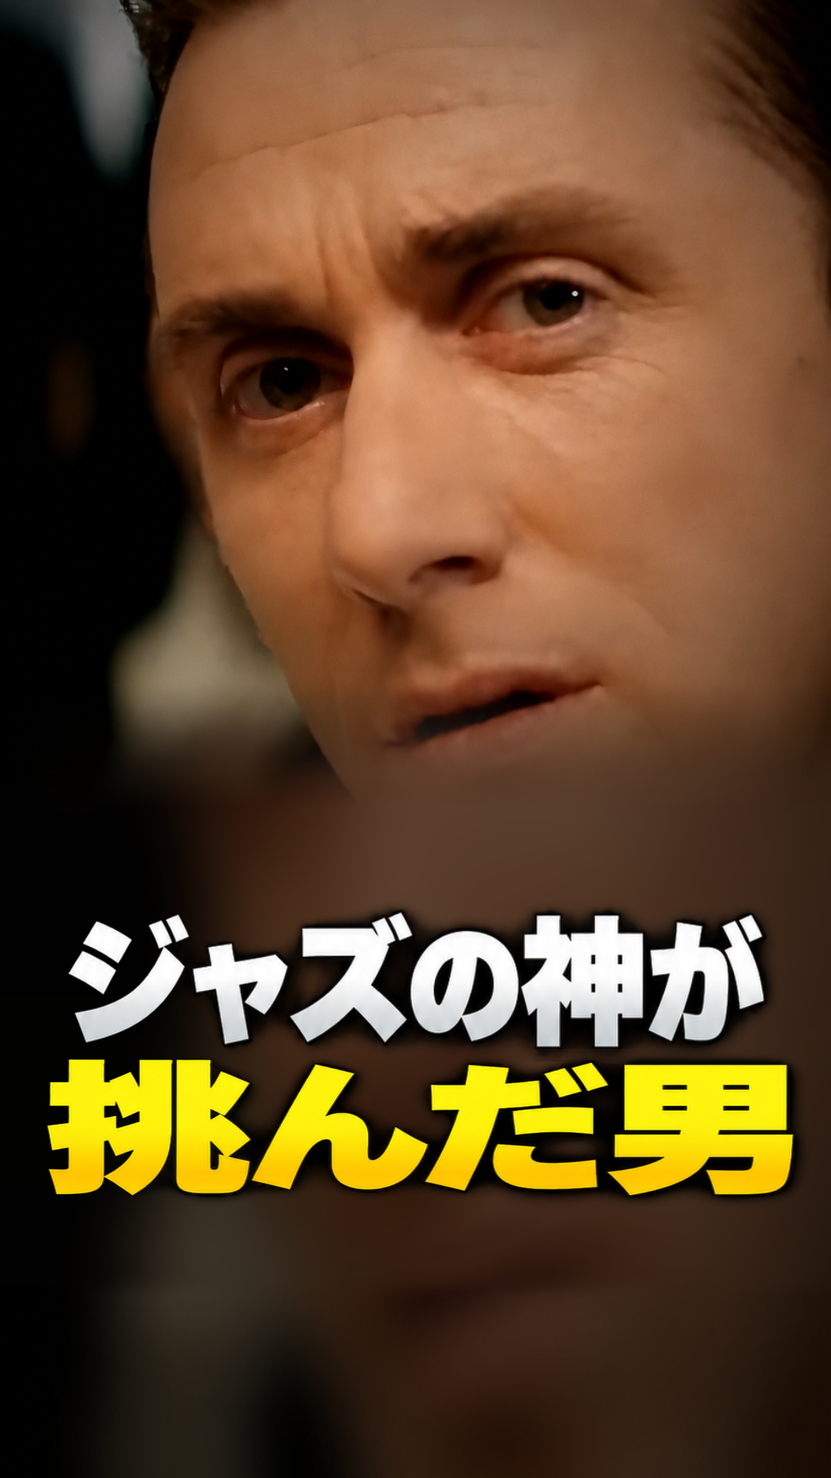
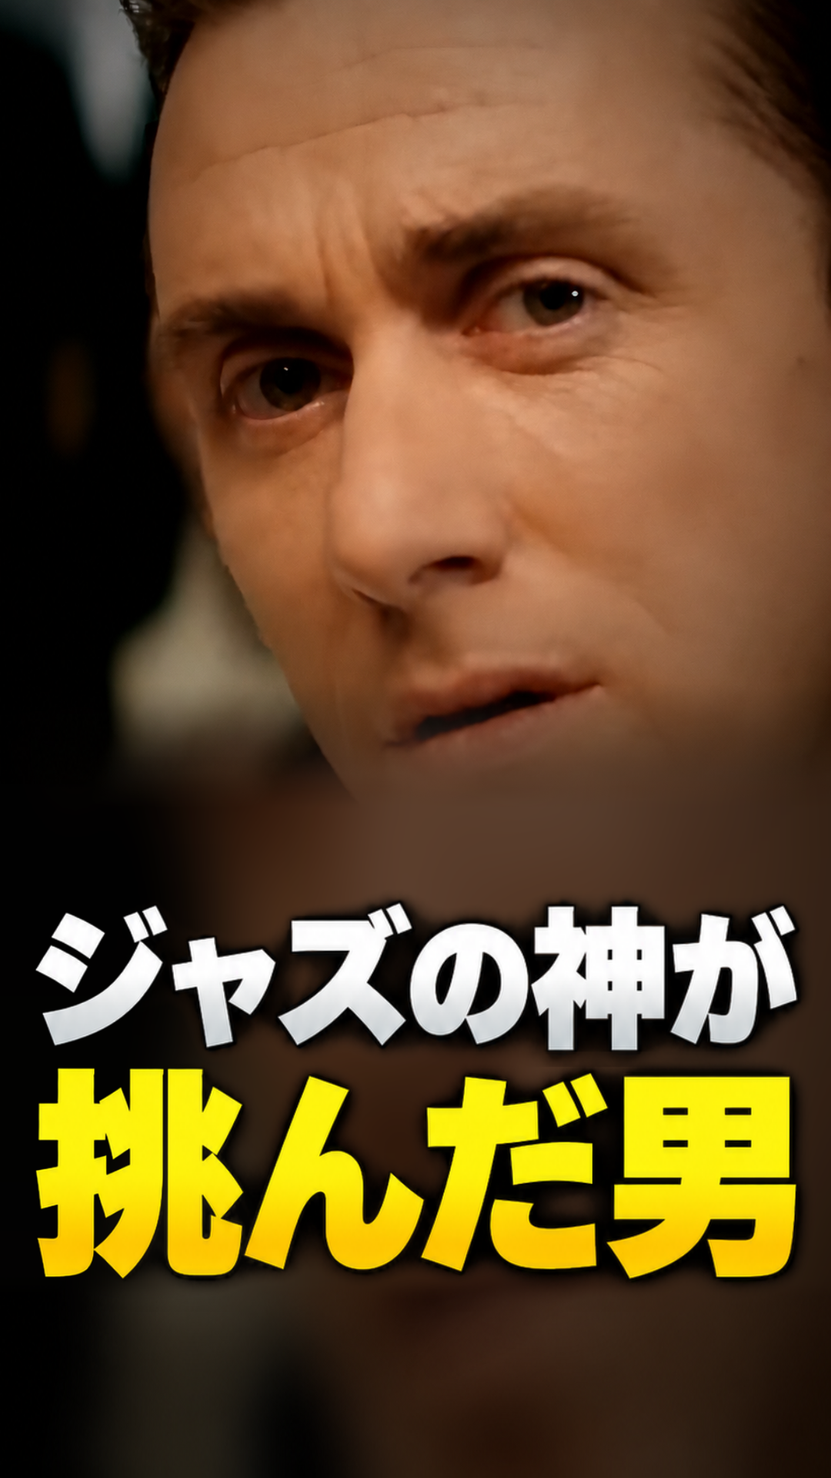
영화 채널: 썸네일 규칙 고정(사용자 확정 2026-10-07) — 위 끝 61.4%·간격 1.4%·아래 87.6% 이내, 두 줄 좌우 꽉 채움(글자 수 적은 줄은 글자 키움, 가로 늘리기 금지), 기준 이미지 もう家族だと. thumbnail.py에 style gpt, fix_gpt_text.py --fill 같은 비율 확대
Claude-Session: https://claude.ai/code/session_01BouazbyQEupnz8YLgYh8Wv

Changed region(s): [[0.0306, 0.5938, 0.9778, 0.875]]

diff --git a/movie/tools/thumbnail.py b/movie/tools/thumbnail.py
@@ -1,7 +1,8 @@
 """쇼츠 커버(썸네일) 1080×1920을 만든다. 기준은 guide/01_COVER.md.
 
 - 원본 영상의 한 프레임에서 영화 화면만 세로 9:16으로 잘라 키운다.
-- 제목 2줄(1줄 흰색, 2줄 노란 그라데이션), 블록은 위 끝 62%·아래 끝 80.7%(guide/01_COVER.md). 넘치면 위치는 그대로 두고 글자를 줄인다.
+- 제목 2줄(1줄 흰색, 2줄 노란 그라데이션). 1줄 위 끝 61.4%, 줄 간격 1.4%, 2줄 아래 끝 87.6% 이내(guide/01_COVER.md, 2026-10-07).
+  두 줄 모두 좌우(x 4.5~95.8%)를 같은 비율 확대로 꽉 채운다 → 글자 수가 적은 줄은 글자가 커진다. 가로로 늘리지 않는다.
 설정: projects/<slug>/thumb.json   사용: python3 tools/thumbnail.py <slug>
 """
 import json, subprocess, sys
@@ -13,8 +14,9 @@ ROOT = Path(__file__).resolve().parent.parent
 FONTS = {"dela": (str(ROOT / "work/fonts/DelaGothicOne-Regular.ttf"), None),
          "noto-black": (str(ROOT / "work/fonts/NotoSansJP-VF.ttf"), "Black")}
 W, H = 1080, 1920
-TOP, BOTTOM = int(H * 0.62), int(H * 0.807)  # 2026-10-06 사용자 확정 위치(guide/01_COVER.md)
-SIDE = int(W * 0.05)
+TOP, BOTTOM = int(H * 0.614), int(H * 0.876)  # 2026-10-07 사용자 확정 위치(guide/01_COVER.md)
+SIDE = int(W * 0.045)
+GAP_RATIO = 0.014
 
 
 def frame(src, t, crop, top_h=None, top_y=0, grade=""):
@@ -42,7 +44,7 @@ def frame(src, t, crop, top_h=None, top_y=0, grade=""):
     return bg
 
 
-def text_layer(lines, sizes, font="dela", scale_x=1.0):
+def text_layer(lines, sizes, font="dela", scale_x=1.0, style="gpt"):
     """lines: [(텍스트, 'white'|'yellow')], sizes: 각 줄 글자 크기. 줄마다 RGBA 이미지와 실제 글자 상자를 돌려준다."""
     out = []
     for (txt, col), size in zip(lines, sizes):
@@ -54,24 +56,33 @@ def text_layer(lines, sizes, font="dela", scale_x=1.0):
         pad = 40
         mask = Image.new("L", (w + pad * 2, h + pad * 2), 0)
         ImageDraw.Draw(mask).text((pad - l, pad - t), txt, font=f, fill=255)
+        if style == "gpt":  # GPT 썸네일 글자처럼 획을 조금 더 굵게
+            mask = mask.filter(ImageFilter.MaxFilter(3))
         if scale_x != 1.0:  # 장체(가로로 좁힌 글자) — 참고 썸네일처럼 세로로 길게
             mask = mask.resize((int(mask.size[0] * scale_x), mask.size[1]), Image.LANCZOS)
             w = int(w * scale_x); pad_x = int(pad * scale_x)
         else:
             pad_x = pad
-        if col == "yellow":  # 위 밝은 노랑 → 아래 진한 노랑
-            grad = Image.new("RGB", mask.size)
-            g = ImageDraw.Draw(grad)
-            for y in range(mask.size[1]):
-                k = min(1, max(0, (y - pad) / max(1, h)))
-                g.line([(0, y), (mask.size[0], y)], fill=(255, int(236 - 40 * k), int(40 - 40 * k)))
-        else:
-            grad = Image.new("RGB", mask.size, (255, 255, 255))
+        # style "gpt"(2026-10-07 기본): GPT 썸네일과 같은 느낌 — 흰 줄 순백→연회색, 노랑 #FFEC00→#FFB800, 넓고 진한 그림자
+        grad = Image.new("RGB", mask.size)
+        g = ImageDraw.Draw(grad)
+        for y in range(mask.size[1]):
+            k = min(1, max(0, (y - pad) / max(1, h)))
+            if col == "yellow":
+                c = (255, int(236 - 52 * k), 0) if style == "gpt" else (255, int(236 - 40 * k), int(40 - 40 * k))
+            else:
+                c = (int(255 - 50 * k ** 1.5),) * 2 + (int(255 - 44 * k ** 1.5),) if style == "gpt" else (255, 255, 255)
+            g.line([(0, y), (mask.size[0], y)], fill=c)
         layer = Image.new("RGBA", mask.size, (0, 0, 0, 0))
         # 그림자(번진 검정) + 얇은 검은 테두리
-        sh = mask.filter(ImageFilter.MaxFilter(9)).filter(ImageFilter.GaussianBlur(14))
-        layer.paste((0, 0, 0, 255), (6, 10), sh.point(lambda v: int(v * 0.85)))
-        edge = mask.filter(ImageFilter.MaxFilter(7))
+        if style == "gpt":
+            sh = mask.filter(ImageFilter.MaxFilter(11)).filter(ImageFilter.GaussianBlur(18))
+            layer.paste((0, 0, 0, 255), (8, 12), sh.point(lambda v: min(255, int(v * 1.1))))
+            edge = mask.filter(ImageFilter.MaxFilter(5))
+        else:
+            sh = mask.filter(ImageFilter.MaxFilter(9)).filter(ImageFilter.GaussianBlur(14))
+            layer.paste((0, 0, 0, 255), (6, 10), sh.point(lambda v: int(v * 0.85)))
+            edge = mask.filter(ImageFilter.MaxFilter(7))
         layer.paste((10, 10, 10, 255), (0, 0), edge)
         layer.paste(grad, (0, 0), mask)
         out.append((layer, w, h, (pad_x, pad)))
@@ -93,20 +104,18 @@ def main():
         d.line([(0, y), (W, y)], fill=int(170 * k ** 1.3))
     img.paste((0, 0, 0), (0, 0), shade)
 
-    sizes = list(cfg["sizes"])
-    gap = cfg.get("gap", 18)
-    while True:  # 폭(좌우 5%)을 넘는 줄만 줄이고, 높이(62~80.7%)를 넘으면 전체를 줄인다
-        layers = text_layer(cfg["lines"], sizes, cfg.get("font", "dela"), cfg.get("scale_x", 1.0))
-        total = sum(h for _, _, h, _ in layers) + gap * (len(layers) - 1)
-        wide = [i for i, (_, w, _, _) in enumerate(layers) if w > W - 2 * SIDE]
-        if wide:
-            for i in wide: sizes[i] = int(sizes[i] * 0.97)
-        elif total > BOTTOM - TOP:
-            sizes = [int(v * 0.97) for v in sizes]
-        else:
-            break
-    y = BOTTOM - total  # 블록 아래 끝을 80.7% 선에 맞춘다
-    y = max(y, TOP)
+    # 줄마다 글자 크기를 바꿔 좌우를 꽉 채운다(같은 비율). 두 줄 높이가 띠를 넘으면 같은 비율로 줄인다.
+    gap = int(H * GAP_RATIO)
+    sizes = list(cfg.get("sizes", [200, 200]))
+    font, sx, style = cfg.get("font", "noto-black"), cfg.get("scale_x", 1.0), cfg.get("style", "gpt")
+    for _ in range(4):
+        layers = text_layer(cfg["lines"], sizes, font, sx, style)
+        sizes = [max(20, int(sz * (W - 2 * SIDE) / w)) for sz, (_, w, _, _) in zip(sizes, layers)]
+    layers = text_layer(cfg["lines"], sizes, font, sx, style)
+    while sum(h for _, _, h, _ in layers) + gap * (len(layers) - 1) > BOTTOM - TOP:
+        sizes = [int(v * 0.98) for v in sizes]
+        layers = text_layer(cfg["lines"], sizes, font, sx, style)
+    y = TOP  # 1줄 위 끝 61.4% 고정
     canvas = img.convert("RGBA")
     boxes = []
     for layer, w, h, pad in layers:
@@ -118,7 +127,7 @@ def main():
     canvas.convert("RGB").save(out)
     x0 = min(b[0] for b in boxes); x1 = max(b[2] for b in boxes); y0 = boxes[0][1]; y1 = boxes[-1][3]
     print(f"wrote {out}  sizes={sizes}  text block x {x0}-{x1}, y {y0}-{y1} "
-          f"({y0 / H:.1%}–{y1 / H:.1%} of height; rule 62.0–80.7%)")
+          f"({y0 / H:.1%}–{y1 / H:.1%} of height; rule top 61.4%, bottom ≤87.6%, sides filled)")
 
 
 if __name__ == "__main__":

diff --git a/movie/tools/fix_gpt_text.py b/movie/tools/fix_gpt_text.py
@@ -1,9 +1,8 @@
 """GPT가 만든 썸네일에서 인물은 그대로 두고 제목 글자만 기준 위치(62.0~80.7%)로 옮기거나 줄인다(guide/01_COVER.md).
 
 사용: python3 tools/fix_gpt_text.py <GPT결과.png> <GPT에 준 사진.png> <출력.png> [--fill]
---fill: (2026-10-07 사용자 지정) GPT가 그린 글자 모양 그대로, 줄마다 따로 키워 기준 사진처럼 좌우를 꽉 채운다.
-  흰 줄 x 8.9~92.3%(같은 비율로 확대, 위 끝 62.0%), 줄 간격 1.0%, 노란 줄 x 5.7~95.3%·아래 끝 80.7%
-  (노란 줄은 남은 높이에 맞추고 가로만 늘려 꽉 채움)
+--fill: (2026-10-07 사용자 지정) GPT가 그린 글자 모양 그대로, 줄마다 같은 비율로 키워 좌우(x 4.5~95.8%)를 채운다.
+  글자 수가 적은 줄은 글자가 더 커진다(가로만 늘리지 않음). 위 끝 61.4%, 줄 간격 1.4%, 아래 끝 87.6% 이내.
 1. GPT 결과를 1080x1920으로 맞추고, 준 사진을 ORB로 정렬
 2. 글자 띠 위·아래 영역으로 색 회귀(x, x², y, x·y) → 정렬한 사진 색을 GPT 색감에 맞춤
 3. 글자 띠를 사진으로 복원(바탕), 차이로 글자+그림자 알파를 뽑음
@@ -70,29 +69,32 @@ def line_box(img, kind, r0, r1):
 
 
 if "--fill" in sys.argv:
+    # 2026-10-07 사용자 지정(기준: もう家族だと/思ってた): 위 끝 61.4%, 두 줄 간격 1.4%, 아래 끝은 87.6%를 넘지 않음.
+    # 줄마다 GPT 글자 모양 그대로 같은 비율로 키워 좌우(x 4.5~95.8%)를 채운다 → 글자 수가 적은 줄은 글자가 더 커진다.
+    FT, FB, GAP, X0, X1 = 0.614, 0.876, 0.014, 0.045, 0.958
     wb = line_box(G, "white", y0, y1); yb = line_box(G, "yellow", y0, y1)
     cut = (wb[3] + yb[1]) // 2  # 두 줄 사이
+    tw = (X1 - X0) * W
+    ks = [tw / (bx[2] - bx[0]) for bx in (wb, yb)]
+    hs = [k * (bx[3] - bx[1]) for k, bx in zip(ks, (wb, yb))]
+    room = (FB - FT - GAP) * H
+    if sum(hs) > room:  # 높이가 넘치면 두 줄을 같은 비율로 줄인다
+        f = room / sum(hs); ks = [k * f for k in ks]; hs = [h * f for h in hs]
     out = base.copy()
-    # 흰 줄: 같은 비율로 x 8.9~92.3%까지, 위 끝 62.0%
-    tw = (0.923 - 0.089) * W; sw = tw / (wb[2] - wb[0])
-    wtop = TOP * H; wbot = wtop + sw * (wb[3] - wb[1])
-    # 노란 줄: 간격 1% 아래부터 80.7%까지, 가로는 x 5.7~95.3%로 꽉
-    ytop = wbot + 0.010 * H; ybot = BOT * H
-    syy = (ybot - ytop) / (yb[3] - yb[1]); syx = (0.953 - 0.057) * W / (yb[2] - yb[0])
-    for (bx0, by0, bx1, by1), sx, sy, tx0, ty0, rr in [
-            (wb, sw, sw, (W - tw) / 2, wtop, (0, cut)),
-            (yb, syx, syy, 0.057 * W, ytop, (cut, H))]:
+    tops = [FT * H, FT * H + hs[0] + GAP * H]
+    for bx, k, top, rr in [(wb, ks[0], tops[0], (0, cut)), (yb, ks[1], tops[1], (cut, H))]:
         a = alpha.copy(); a[:rr[0]] = 0; a[rr[1]:] = 0
-        M = np.float32([[sx, 0, tx0 - sx * bx0], [0, sy, ty0 - sy * by0]])
+        cx = (bx[0] + bx[2]) / 2
+        M = np.float32([[k, 0, W / 2 - k * cx], [0, k, top - k * bx[1]]])
         Tg = cv2.warpAffine(G.astype(np.float32), M, (W, H))
         Ta = cv2.warpAffine(a, M, (W, H))[..., None]
         out = out * (1 - Ta) + Tg * Ta
     out = np.clip(out, 0, 255).astype(np.uint8)
     cv2.imwrite(sys.argv[3], out)
-    print(f"fill: white scale {sw:.3f}, yellow scale x{syx:.3f} y{syy:.3f}")
-    for k in ("white", "yellow"):
-        bx = line_box(out, k, int(H * .55), H)
-        print(f"  {k}: y {bx[1]/H:.1%}-{bx[3]/H:.1%}  x {bx[0]/W:.1%}-{bx[2]/W:.1%}")
+    print(f"fill: white x{ks[0]:.3f}, yellow x{ks[1]:.3f} (같은 비율)")
+    for kk in ("white", "yellow"):
+        bx = line_box(out, kk, int(H * .55), H)
+        print(f"  {kk}: y {bx[1]/H:.1%}-{bx[3]/H:.1%}  x {bx[0]/W:.1%}-{bx[2]/W:.1%}")
     sys.exit()
 # 4) 글자 블록 이동·축소(아래 끝 기준)
 s = (BOT - TOP) * H / (y1 - y0)

diff --git a/movie/AGENTS.md b/movie/AGENTS.md
@@ -134,7 +134,7 @@
 **규격**
 - 1080×1920. 영상 속 실제 프레임만 사용(인물을 다시 그리거나 바꾸지 않는다). 한국어 자막·로고·장식 없는 프레임.
 - 제목 2줄: 1줄 흰색(순백→연회색), 2줄 노란색(#FFE600→#FFC400) 그라데이션, 2줄이 더 크게. 아주 굵은 장체(Noto Sans JP Black을 가로 80%), 넓은 검은 그림자 + 얇은 검은 테두리.
-- **위치(2026-10-06 사용자 확정, `assets/thumb_position_reference.png`): 제목 블록 위 끝 62.0%(y 1190), 아래 끝 80.7%(y 1550).** 1줄(흰) 62.0~67.6%, 2줄(노랑) 71.2~80.7%. 좌우 여백 각 5% 이상. 길면 위치는 그대로 두고 글자를 줄인다(넘치는 줄만 줄인다). 이전 기준(61~88%, 59.5~81%)은 폐기.
+- **위치·크기(2026-10-07 사용자 확정, `assets/thumb_position_reference.png` = もう家族だと/思ってた): 1줄(흰) 위 끝 61.4%(y 1179), 두 줄 간격 약 1.4%, 2줄(노랑) 아래 끝 87.6%(y 1682) 이내.** 두 줄 모두 좌우 x 약 4.5~95.8%를 꽉 채운다. 글자 수가 적은 줄은 글자를 키워서 채우고, 가로로 늘려 채우지 않는다. 높이가 넘치면 두 줄을 같은 비율로 줄인다. 이전 기준(62.0~80.7%, 61~88%)은 폐기.
 - 얼굴(눈)은 위에서 15~50%. 위쪽에 흐린 띠·그라데이션 띠를 넣지 않는다.
 - 중요한 피사체가 아래에 있으면 제목이 가린다 → 다른 장면을 고르거나 사용자에게 알린다.
 - 후보는 3개를 비교 이미지(기준 썸네일과 나란히)로 제시하고 추천 1개와 이유를 말한다.
@@ -147,7 +147,7 @@
 [사진] 그대로 쓴다. 인물의 얼굴·피부색·나이·표정·옷은 절대 바꾸지 않는다. 다시 그리지 않는다.
   해도 되는 것: 선명도, 대비 약간↑, 채도 약간, 비네트. 위쪽에 흐림·그라데이션 띠 금지. 사진 위치·크기 그대로.
 [문구] 1줄(흰색): ○○○ / 2줄(노란색): ○○○  (이대로, 줄 나누기 그대로)
-[위치] 제목 블록 위 끝 = 화면 높이 62%(y 1190), 아래 끝 = 80.7%(y 1550). 1줄(흰) 62~67.6%, 2줄(노랑) 71.2~80.7%. 좌우 여백 5% 이상.
+[위치] 1줄(흰) 위 끝 = 화면 높이 61.4%(y 1179), 두 줄 간격 약 1.4%, 2줄(노랑) 아래 끝 = 87.6%(y 1682) 이내. 두 줄 모두 좌우 약 4.5~95.8%를 꽉 채운다. 글자 수가 적은 줄은 글자를 키워 채우고, 가로로 늘리지 않는다.
   2줄을 1줄보다 크게(1줄 글자 높이 ≈ 화면 높이의 5.6%, 2줄 ≈ 9.6%), 두 줄 사이 간격 ≈ 3.6%. 글자가 얼굴을 가리지 않게.
 [스타일] 아주 굵은 일본어 고딕(Noto Sans JP Black), 가로 약간 좁힌 장체.
   1줄 순백→연회색, 2줄 #FFE600→#FFC400 그라데이션, 넓고 부드러운 검은 그림자 + 얇은 검은 테두리. 글자 정확히.
@@ -155,7 +155,7 @@
 [확인] 위치·여백·글자 정확도·인물 동일성을 확인하고, 아니면 고쳐서 다시 만들어 줘.
 ```
 
-**GPT 결과의 글자 위치가 위 기준(62.0~80.7%)과 다를 때(인물은 그대로, 글자만 이동)**: GPT에 준 원본 사진을 ORB 특징점으로 정렬(보통 어긋남 1px 미만) → 국소 색 보정 → 원래 글자 띠를 원본 배경으로 복원 → 원본과의 차이로 글자+그림자 알파를 만들어 목표 높이로 옮겨 합성 → 위·아래 끝을 다시 재서 보고. 단순 인페인팅은 얼룩이 남으니 쓰지 않는다.
+**GPT 결과의 글자 위치·크기가 위 기준과 다를 때(인물은 그대로, GPT 글자 모양 그대로 이동·확대, `python3 tools/fix_gpt_text.py GPT결과.png 준사진.png 출력.png --fill`)**: GPT에 준 원본 사진을 ORB 특징점으로 정렬(보통 어긋남 1px 미만) → 국소 색 보정 → 원래 글자 띠를 원본 배경으로 복원 → 원본과의 차이로 글자+그림자 알파를 만들어 목표 높이로 옮겨 합성 → 위·아래 끝을 다시 재서 보고. 단순 인페인팅은 얼룩이 남으니 쓰지 않는다.
 
 ---
 

diff --git a/movie/guide/01_COVER.md b/movie/guide/01_COVER.md
@@ -1,26 +1,27 @@
-# 썸네일(커버) 제목 위치 기준
+# 썸네일(커버) 제목 위치·크기 기준
 
-**확정 2026-10-06(사용자 지정).** 기준 이미지: `assets/thumb_position_reference.png`(「4800キロ先で / 待っていたのは」). 이전 기준(61~88%, 「看守」 59.5~81%)은 폐기했다.
+**확정 2026-10-07(사용자 지정). 이 규칙은 고정이다 — 다시 바꾸지 않는다.** 썸네일은 GPT 대신 `tools/thumbnail.py`로 직접 만든다(style `gpt`: GPT 썸네일과 같은 글자 느낌). 기준 이미지: `assets/thumb_position_reference.png`(「もう家族だと / 思ってた」, kind 썸네일). 이전 기준(62.0~80.7%, 「4800キロ先で」)은 폐기했다.
 
-## 위치 (1080×1920 기준)
+## 위치 (1080×1920 기준, 위치는 고정)
 
 | 항목 | 비율 | 1920 기준 y |
 |---|---|---|
-| 제목 블록 위 끝(1줄 흰 글자 위) | **62.0%** | **1190** |
-| 1줄 아래 끝 | 67.6% | 1298 |
-| 2줄 위 끝(노란 글자 위) | 71.2% | 1367 |
-| 제목 블록 아래 끝(2줄 아래) | **80.7%** | **1550** |
-| 좌우 | 1줄 x 8.9~92.3%, 2줄 x 5.7~95.3% | 여백 각 5% 이상 |
+| 1줄(흰 글자) 위 끝 | **61.4%** | **1179** |
+| 1줄 아래 끝 | 72.1% | 1384 |
+| 2줄(노란 글자) 위 끝 | 73.5% | 1411 |
+| 2줄 아래 끝 | **87.6%** | **1682** |
+| 두 줄 간격 | 약 1.4% | 약 27 |
+| 좌우 | 두 줄 모두 x 약 4.5~95.8% | 좌우를 꽉 채움 |
 
-- 제목은 2줄. 1줄 흰색(작게), 2줄 노란색(크게). 2줄 글자 높이 ≈ 1줄의 1.7배.
-- **아래 끝을 80.7%(y 1550)에 맞춘다.** 위 끝은 62% 근처. 글자가 길면 위치를 바꾸지 말고 글자 크기를 줄인다.
-- 납품 전에 흰 글자 위 끝·노란 글자 아래 끝을 픽셀로 재서 ±0.5% 안인지 확인한다.
+## 글자 크기 (2026-10-07 사용자 지정)
 
-## GPT 결과의 위치가 다를 때
+- **두 줄 모두 좌우를 꽉 채운다.** 글자 수가 적은 줄은 **글자 크기를 키워서** 채운다(예: 「看守は / 気づけるか？」는 3글자인 1줄이 더 크다).
+- **가로로 늘려서 채우지 않는다.** 글자는 항상 원래 비율 그대로 키운다(장체 0.8은 폰트 스타일로 유지).
+- 두 줄 높이 합이 61.4~87.6%를 넘으면 두 줄을 같은 비율로 줄인다(위 끝 61.4%는 고정).
+- 1줄 흰색(위 순백→아래 연회색), 2줄 노란색(#FFE600→#FFC400) 그라데이션, 넓은 검은 그림자.
 
-인물은 그대로 두고 글자만 옮긴다(`python3 tools/fix_gpt_text.py GPT결과.png 준사진.png 출력.png`, 글자가 크면 아래 끝 기준으로 줄임): GPT에 준 원본 사진을 ORB로 정렬 → 띠 위·아래 이웃 영역으로 색 회귀 보정 → 원래 글자 띠 복원 → 글자+그림자 알파를 목표 위치로 이동 합성 → 다시 측정.
+## GPT 결과를 고칠 때
 
-## 글자 크기: 좌우를 꽉 채운다 (2026-10-07 사용자 지정)
-
-- 위치는 위 표(62.0~80.7%) 그대로, **글자 크기는 기준 사진처럼 좌우를 꽉 채운다**(흰 줄 x 약 8.9~92.3%, 노란 줄 x 약 5.7~95.3%, 두 줄 간격 약 1%).
-- GPT로 만든 썸네일은 **GPT가 그린 글자 모양을 그대로 쓴다**(새 폰트로 다시 쓰지 않는다). `python3 tools/fix_gpt_text.py GPT결과.png 준사진.png 출력.png --fill`로 줄마다 따로 키워 채운다. 글자 수가 적어 높이가 넘치면 높이는 띠에 맞추고 가로만 늘린다.
+GPT가 그린 글자 모양을 그대로 쓴다(새 폰트로 다시 쓰지 않는다). 인물은 그대로 두고 글자만 옮기고 키운다:
+`python3 tools/fix_gpt_text.py GPT결과.png 준사진.png 출력.png --fill`
+(준 사진을 ORB로 정렬 → 띠 위·아래로 색 회귀 → 원래 글자 띠 복원 → 줄마다 같은 비율로 키워 위 기준에 배치 → 다시 측정)

diff --git a/movie/guide/02_THUMBNAIL_GPT.md b/movie/guide/02_THUMBNAIL_GPT.md
@@ -1,12 +1,12 @@
 # 쇼츠 썸네일 제작 지침 (GPT 전달용)
 
-2026-10-02 사용자 요청으로 작성. 사용법: GPT에 **원본 영상(또는 글자 없는 장면 사진) + 위치 기준 사진 `assets/thumb_position_reference.png` + 아래 「GPT에 붙여 넣을 지침」**을 함께 올린다. 위치 수치는 기준 사진에서 잰 값이다(2026-10-06 사용자 확정, 01_COVER).
+2026-10-02 사용자 요청으로 작성. 사용법: GPT에 **원본 영상(또는 글자 없는 장면 사진) + 위치 기준 사진 `assets/thumb_position_reference.png` + 아래 「GPT에 붙여 넣을 지침」**을 함께 올린다. 위치 수치는 기준 사진에서 잰 값이다(2026-10-07 사용자 확정, 01_COVER).
 
 ## GPT에 붙여 넣을 지침
 
 ```
 너는 일본 시청자용 영화 쇼츠 채널 「シネトリ」의 썸네일(커버) 디자이너다.
-첨부: ① 원본 영상 또는 장면 사진 ② 위치 기준 사진(4800キロ先で / 待っていたのは).
+첨부: ① 원본 영상 또는 장면 사진 ② 위치 기준 사진(もう家族だと / 思ってた).
 아래 기준으로 세로 썸네일 1장을 만들어 줘.
 
 [1] 크기
@@ -27,11 +27,9 @@
 
 [4] 제목 글자 — 위치는 기준 사진과 똑같이
 - 2줄. 1줄은 흰색, 2줄은 노란색(핵심 단어).
-- 제목 블록 위 끝 = 화면 높이 62%(1920 기준 y 1190), 아래 끝 = 80.7%(y 1550).
-  1줄(흰) 62~67.6%, 2줄(노랑) 71.2~80.7%.
+- 1줄(흰) 위 끝 = 화면 높이 61.4%(1920 기준 y 1179), 두 줄 간격 약 1.4%, 2줄(노랑) 아래 끝 = 87.6%(y 1682) 이내.
+- 두 줄 모두 좌우를 꽉 채운다(x 약 4.5~95.8%). 글자 수가 적은 줄은 글자를 더 크게 해서 채운다. 글자를 가로로 늘리거나 찌그러뜨리지 않는다.
 - 아래로 내려가면 쇼츠 화면 아래 UI(제목·채널명)에 가려 잘린다. 위치를 바꾸지 마.
-- 좌우 여백은 각각 폭의 5% 이상(약 50px). 글자가 길면 위치를 내리지 말고 글자 크기를 줄인다.
-- 크기 비율: 1줄 글자 높이 ≈ 화면 높이의 5.6%, 2줄 ≈ 9.6%(2줄을 더 크게). 두 줄 사이 간격 ≈ 3.6%.
 
 [5] 글자 스타일 — 기준 사진과 같게
 - 굵은 일본어 고딕체(Noto Sans JP Black, 源ノ角ゴシック Heavy, Dela Gothic One 같은 굵기).
@@ -49,8 +47,8 @@
 - 채널 로고, 화살표, 원, 이모지, 테두리, 워터마크, 추가 문구.
 
 [8] 다 만든 뒤 스스로 확인하고, 아니면 고쳐서 다시 만들어 줘
-- 제목 블록 위 끝이 약 62%, 아래 끝이 약 80.7%인가?
-- 좌우가 잘리지 않았고 5% 여백이 있는가?
+- 1줄 위 끝이 약 61.4%, 2줄 아래 끝이 87.6% 이내인가?
+- 두 줄 모두 좌우를 꽉 채웠고(잘리지 않음), 글자를 가로로 늘리지 않았는가?
 - 일본어 글자가 정확한가(한 글자씩 대조)?
 - 얼굴이 위쪽 절반에 있고, 제목과 겹치지 않는가?
 - 인물이 영상 속 인물과 같은 사람으로 보이는가?
@@ -65,6 +63,6 @@
 
 ## 받은 뒤 확인
 
-- 우리 쪽에서 픽셀로 다시 잰다: 위 끝 62.0%, 아래 끝 80.7%(±0.5%), 좌우 ≥ 5%.
+- 우리 쪽에서 픽셀로 다시 잰다: 위 끝 61.4%, 아래 끝 87.6% 이내, 좌우 꽉 채움. 다르면 `tools/fix_gpt_text.py --fill`(GPT 글자 그대로 이동·확대).
 - GPT 이미지 생성은 실제 프레임을 "다시 그리는" 경우가 있다. 배우 얼굴이 달라졌으면 다시 요청하거나, `tools/thumbnail.py`(실제 프레임 + 같은 규칙)로 만든다.
 - 영화 장면을 쓴 썸네일도 권리 문제는 영상과 같다. 썸네일을 바꿨다고 해결되지 않는다.

diff --git a/movie/CLAUDE.md b/movie/CLAUDE.md
@@ -17,7 +17,7 @@
 - **동기화**: 문장 묶음 단위로 합성하고 단어 타이밍으로 배치. 축약 → 합성 속도 → 후처리 가속(대체로 1.0–1.25배) 순서로 맞춘다.
 - **화면**: 상·하단 `#10131C`, 제목 Dela Gothic One(핵심 노란 강조). 한국어 자막·로고는 그 영역만 부드럽게 블러. 좌표·속도 같은 탈옥 영상 수치는 참고값일 뿐 그대로 쓰지 않는다.
 - **대사 색(사용자 지정, 2026-10-05)**: 말하는 사람마다 색을 나눈다. 주인공 노랑 `#FFDC49`, 두 번째 인물 하늘색 `#7FD8FF`, 세 번째 인물 분홍 `#FF9EC7`, 네 번째부터 연두 `#A8E890`·주황 `#FFB870`. 해설의 흰색과 겹치는 색은 쓰지 않는다. `script.json`의 `speaker_colors`(인물 이름 → 색)로 정하고, 없는 인물은 노랑.
-- **커버 제목**(2026-10-06 사용자 확정): 2줄(흰/노랑), 위 끝 62.0%(y 1190), 아래 끝 80.7%(y 1550). 기준 이미지 `assets/thumb_position_reference.png`(01_COVER).
+- **커버 제목**(2026-10-07 사용자 확정): 2줄(흰/노랑), 위 끝 61.4%(y 1179), 아래 끝 87.6%(y 1682) 이내, 줄 간격 1.4%. 두 줄 모두 좌우를 꽉 채우고, 글자 수가 적은 줄은 글자를 키운다(가로로 늘리지 않음). **이 규칙은 고정(사용자: 다시는 바꾸지 않는다).** 썸네일은 GPT 대신 우리가 `tools/thumbnail.py`(style gpt: 흰 순백→연회색, 노랑 #FFEC00→#FFB800, 굵은 획·진한 그림자, 장체 없음)로 직접 만든다. GPT 결과를 받으면 GPT 글자 그대로 `tools/fix_gpt_text.py --fill`. 기준 이미지 `assets/thumb_position_reference.png`(もう家族だと/思ってた, 01_COVER).
 - **채널 로고**(사용자 지정): 원본 채널 워터마크를 블러한 자리 위에 시네트리 배지(`assets/channel_badge.png`: 반투명 짙은 둥근 판 + シネトリ 노란 글자)를 같은 크기로 얹어 블러 자국을 가린다. 위치는 영상마다 `layout.logo_blur`에 맞춘다.
 - **업로드 제목(사용자 지정, 2026-10-05)**: 제목에 「【映画紹介】」「映画紹介」 같은 꼬리말을 붙이지 않는다. 설명란 해시태그 #映画紹介 도 쓰지 않는다.
 - **BGM**: 가사 없는 자작곡 또는 사용 조건 확인된 곡. 장르마다 바꾼다.
